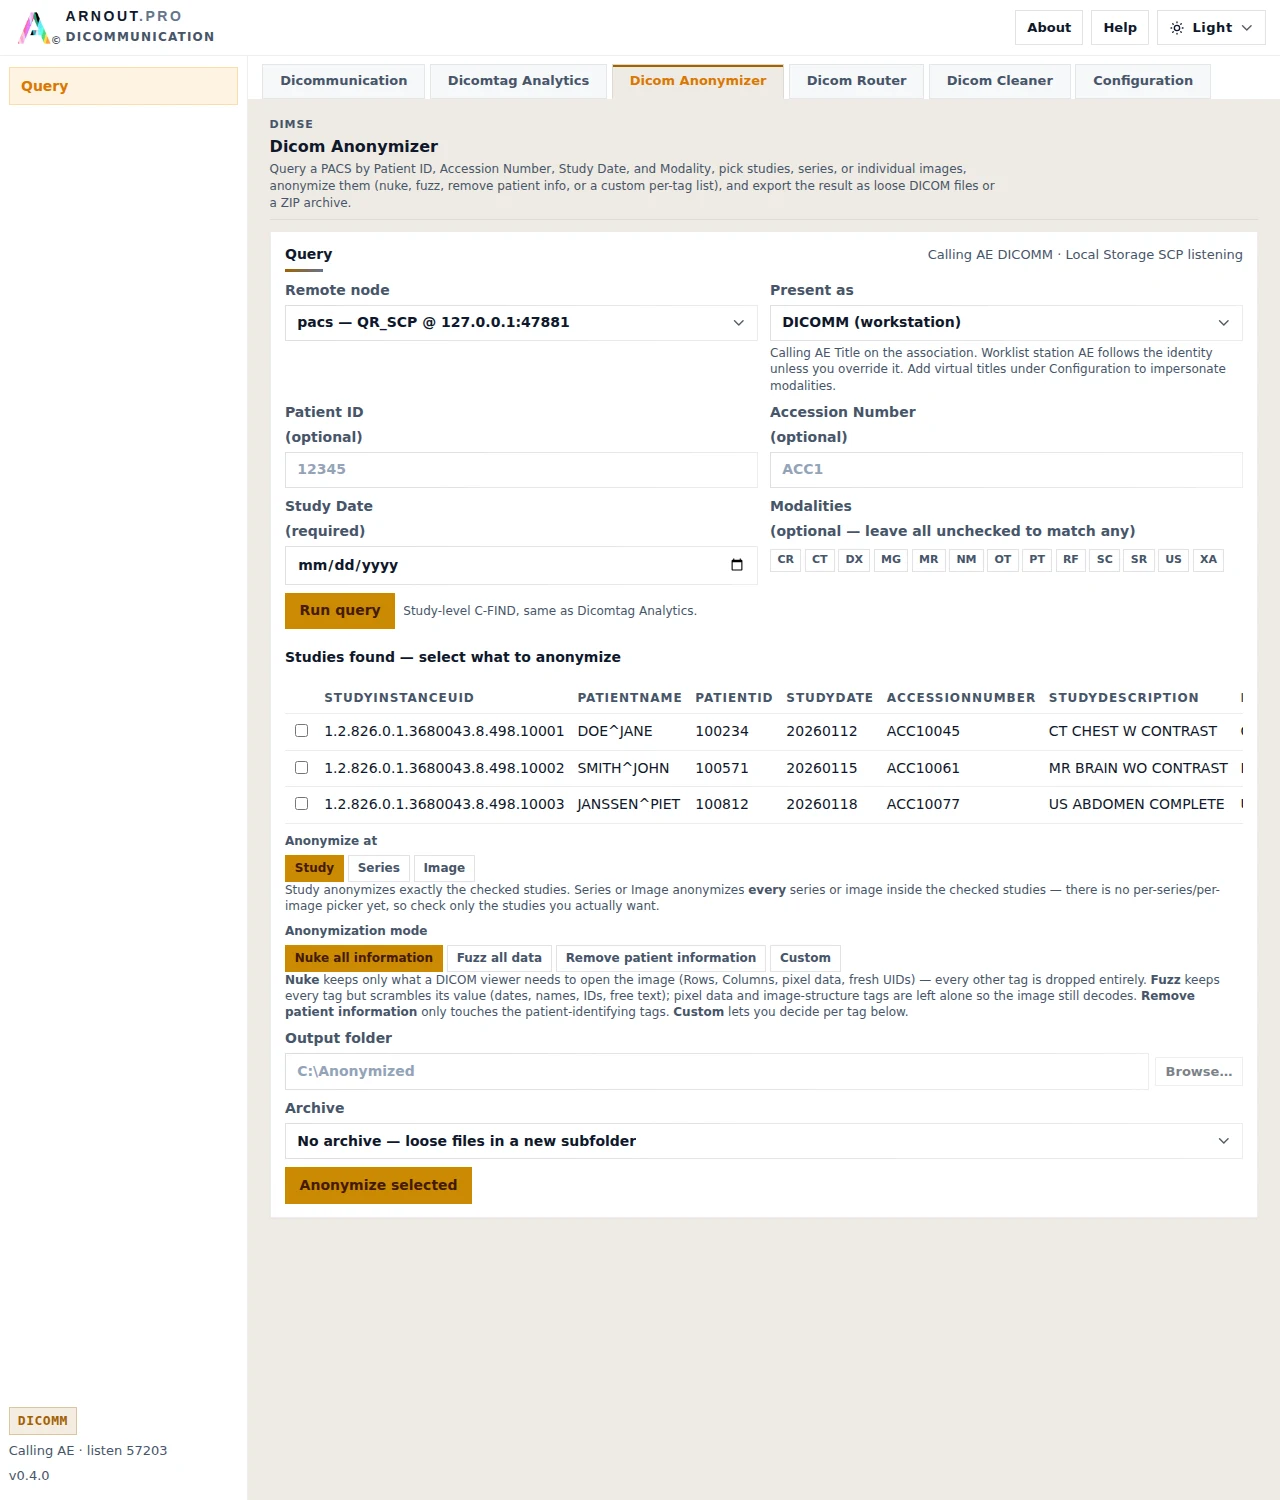
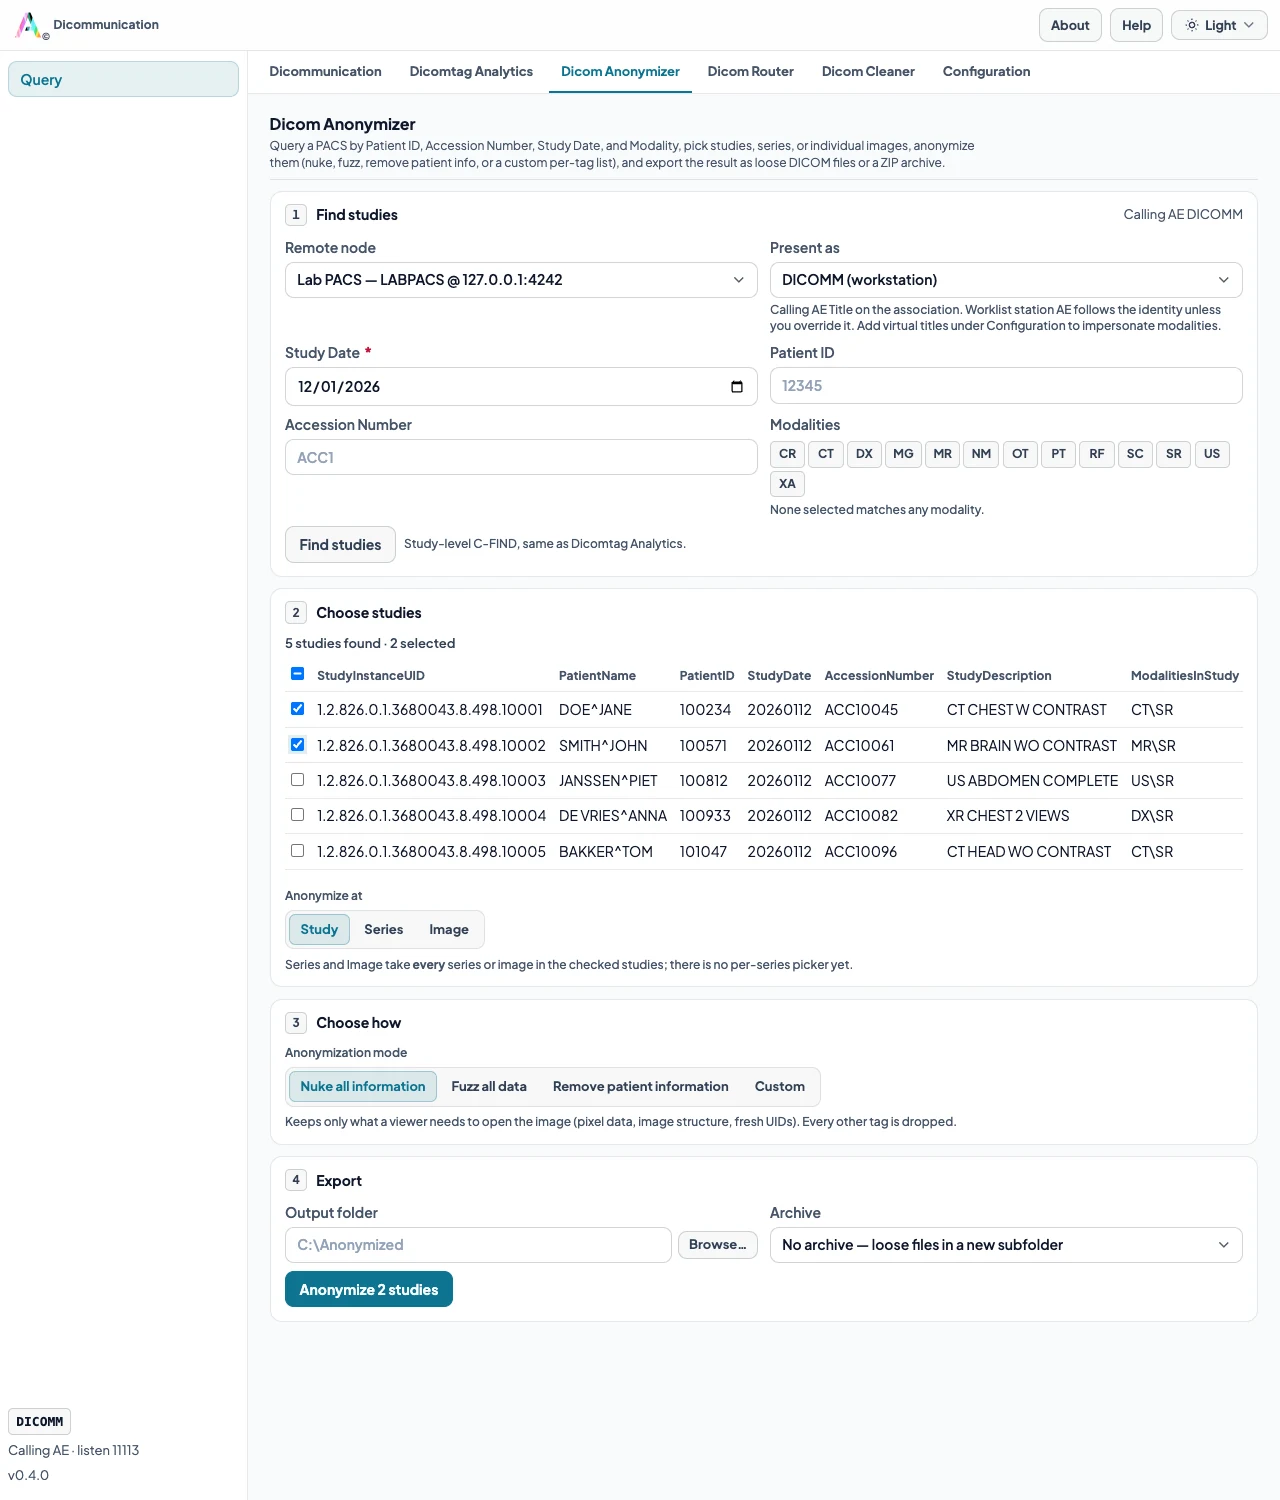
Retake README screenshots for the redesign; fix table action cells
All seven README screenshots are retaken in the light theme from a
synthetic demo PACS (five studies with SR reports, a PACS and an MWL
node, two route rules), at the same sizes as before except Cleaner,
which is 100px taller to fit all four steps. Captions describe the new
dashboard and the step-by-step Anonymizer and Cleaner, and link
DESIGN.md.

Two layout fixes found while shooting: td.actions was display:flex, so
its row line drifted from the rest of the row in every table that has
an actions column; and closed .advanced disclosures kept their bottom
padding.

diff --git a/app/static/css/app.css b/app/static/css/app.css
@@ -703,6 +703,10 @@ th {
   letter-spacing: 0.01em;
 }
 .actions { display: flex; gap: 0.7rem; justify-content: flex-end; flex-wrap: wrap; }
+/* In a table the actions cell must stay a table cell: display:flex on a <td>
+   takes it out of the row, so its border and height drift from the rest. */
+td.actions { display: table-cell; text-align: right; white-space: nowrap; }
+td.actions > * + * { margin-left: 0.7rem; }
 .actions a, .link-button {
   color: var(--accent);
   background: none;
@@ -897,6 +901,7 @@ details[open] > summary::before { transform: rotate(45deg); }
   padding: 0 0.75rem 0.65rem;
   background: var(--glass);
 }
+.advanced:not([open]) { padding-bottom: 0; }
 .advanced > summary {
   color: var(--subtle);
   font-size: var(--text-md);

diff --git a/CHANGELOG.md b/CHANGELOG.md
@@ -34,6 +34,8 @@
 - **Redesign, phase 4 (dashboard)**: the dashboard now answers "is everything reachable, and what do I do next?". The **Registered tools** card is replaced by a **Remote nodes** card with a health line ("1 answering · 1 not answering · 0 not checked") and a **C-ECHO all nodes** button that runs the check and comes back to the dashboard, and a **Next step** card that adapts: add a first node, check the nodes that haven't been checked, PING a node that doesn't answer C-ECHO (preselected), or move on to the Testbench once everything answers. **This workstation** also shows whether Accept C-STORE and the Worklist SCP are listening, off, or switched on but not listening. The node table gets a **Last C-ECHO** column (Echo OK / Echo failed / Not checked, with the time), and its PING, C-ECHO and Testbench links open that tool with the node already selected (`?remote_id=` on `/tools/<id>` and `/testbench`). Recent results say Pass / Fail instead of showing a coloured dot.
 - Dicom Anonymizer and Dicom Cleaner cleared every query field (Study Date, Patient ID, Accession Number, Modalities) after each query or run. They now keep what was submitted.
 - On pages with segmented choices or modality chips (Dicom Anonymizer, Dicom Cleaner, Dicomtag Analytics), focusing one of those controls could scroll the whole app, top bar included, out of view. Their hidden inputs were positioned against the app frame instead of the scrolling page; the page area now contains them.
+- Tables with an actions column (dashboard, Configuration, Worklist, HL7 messages) drew that cell's row line at a different height from the rest of the row: the cell was a flex box instead of a table cell. Closed **Schedule** / **Forwarding** disclosures on Dicom Router no longer leave an empty strip below their title.
+- README screenshots retaken for the redesign, from a synthetic demo PACS (five studies with SR reports).
 - The theme menu opened partly underneath the product tab row, hiding its "Color" heading. The top bar now sits above the tab row.
 - **Dicom Router**: new fourth product (`app/router_scheduler.py`, `app/routes/route_rules.py`) — manages scheduled C-FIND rules. A background scheduler runs each active rule's C-FIND on a timer or daily schedule and records new studies (`RouteRule`/`RouteRun` in `app/store.py`). A rule with destination nodes configured additionally C-MOVEs each new match to this workstation's local Storage SCP and C-STOREs it on to those destinations, retrying automatically next run if the retrieve or forward failed. Studies are only marked "seen" once fully handled, and that marking is now per-study rather than batched at the end of a run, so an interrupted run never redoes or loses completed work. The page (rules list, edit, delete, manual **Run now**, and a per-rule run history showing every match's status: found/retrieved/forwarded/failed, plus whether the run itself completed or was interrupted) is available both inside the main Dicommunication window at `/router` and as its own Start-menu tool at `/dicom-router/` (`--profile dicom-router`), same as Dicomtag Analytics and Dicom Anonymizer: own Windows MSI Feature + Desktop-shortcut sub-feature, own self-contained `Dicom Router.app` bundle in the macOS DMG.
 - **Dicom Router**: each rule now has its own **Start** / **Pause** / **Stop** controls, independent of its schedule (`RouteRule.status`: active/paused/stopped, replacing the earlier plain enabled flag). Pause and Stop interrupt a run that's already in progress — cooperatively, between studies rather than mid-association, so nothing already retrieved/forwarded is redone — not just future scheduled runs. Start always runs the rule immediately and computes a fresh next scheduled time. Manual runs (**Run now**, and the run Start triggers) execute in a background thread instead of blocking the request, so the rule list can show a live **Running** badge and Pause/Stop stay clickable while a batch is still going.

diff --git a/README.md b/README.md
@@ -16,9 +16,9 @@ Open [http://127.0.0.1:8080](http://127.0.0.1:8080).
 
 ## Screenshots
 
-Synthetic lab studies (not clinical data). Light theme, v0.4.0. The theme switcher (top right) also has dark and professional-dark modes — same layout, same tab-color-into-page-background treatment, different accent.
+Synthetic lab studies (not clinical data). Light theme, v0.4.0, in the arnout.pro "Reading Room" design shared with the browser tools (see [DESIGN.md](DESIGN.md)). The theme switcher (top right) also has dark and professional-dark modes: same layout, different palette.
 
-**Dicommunication** — workstation dashboard, remotes, Test tools.
+**Dicommunication** — dashboard: this workstation, each remote node's last C-ECHO in words, a one-click C-ECHO of every node, and a suggested next step.
 
 ![Dicommunication dashboard](docs/screenshots/dicommunication-dashboard.webp)
 
@@ -28,15 +28,15 @@ Synthetic lab studies (not clinical data). Light theme, v0.4.0. The theme switch
 
 ![Five Structured Reports with Findings, Impression, and export](docs/screenshots/vue-sr-reports.webp)
 
-**Dicom Anonymizer** — query, pick studies, choose a mode (Nuke / Fuzz / Remove patient info / Custom), export.
+**Dicom Anonymizer** — four numbered steps: find studies, choose studies, choose how (Nuke / Fuzz / Remove patient info / Custom), export.
 
-![Dicom Anonymizer query results and anonymization mode](docs/screenshots/anonymizer.webp)
+![Dicom Anonymizer steps with two of five studies selected](docs/screenshots/anonymizer.webp)
 
-**Dicom Cleaner** — query, pick studies, set the redact rectangle, send the cleaned instances back.
+**Dicom Cleaner** — the same steps: find studies, choose studies, set the redact rectangle, send the cleaned instances back.
 
-![Dicom Cleaner query results and redact-region fields](docs/screenshots/cleaner.webp)
+![Dicom Cleaner steps with redact-region fields and send-back options](docs/screenshots/cleaner.webp)
 
-**Dicom Router** — scheduled route rules with a live status dot per rule in the sidebar.
+**Dicom Router** — scheduled route rules with a status dot per rule in the sidebar (active, paused).
 
 ![Dicom Router rule list and add-rule form](docs/screenshots/router.webp)
 
